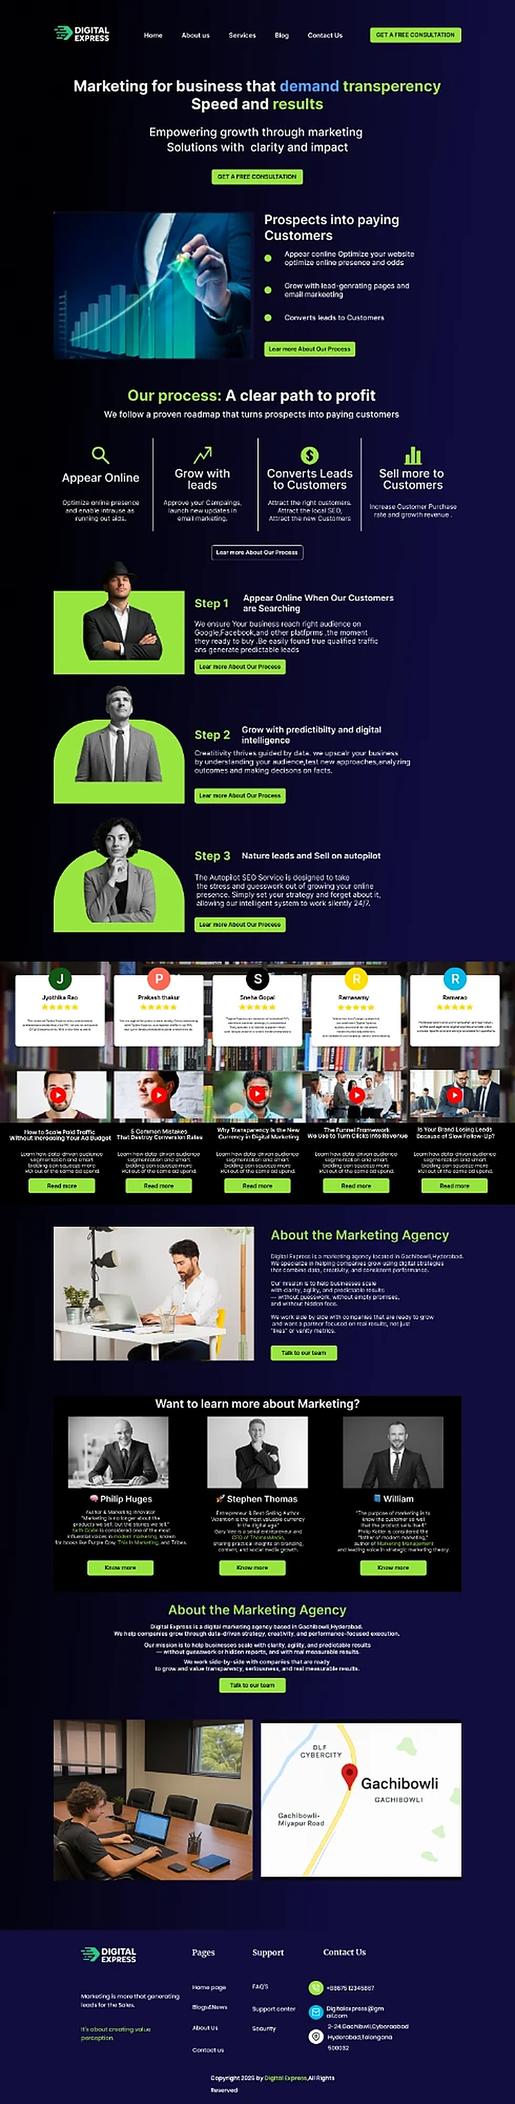
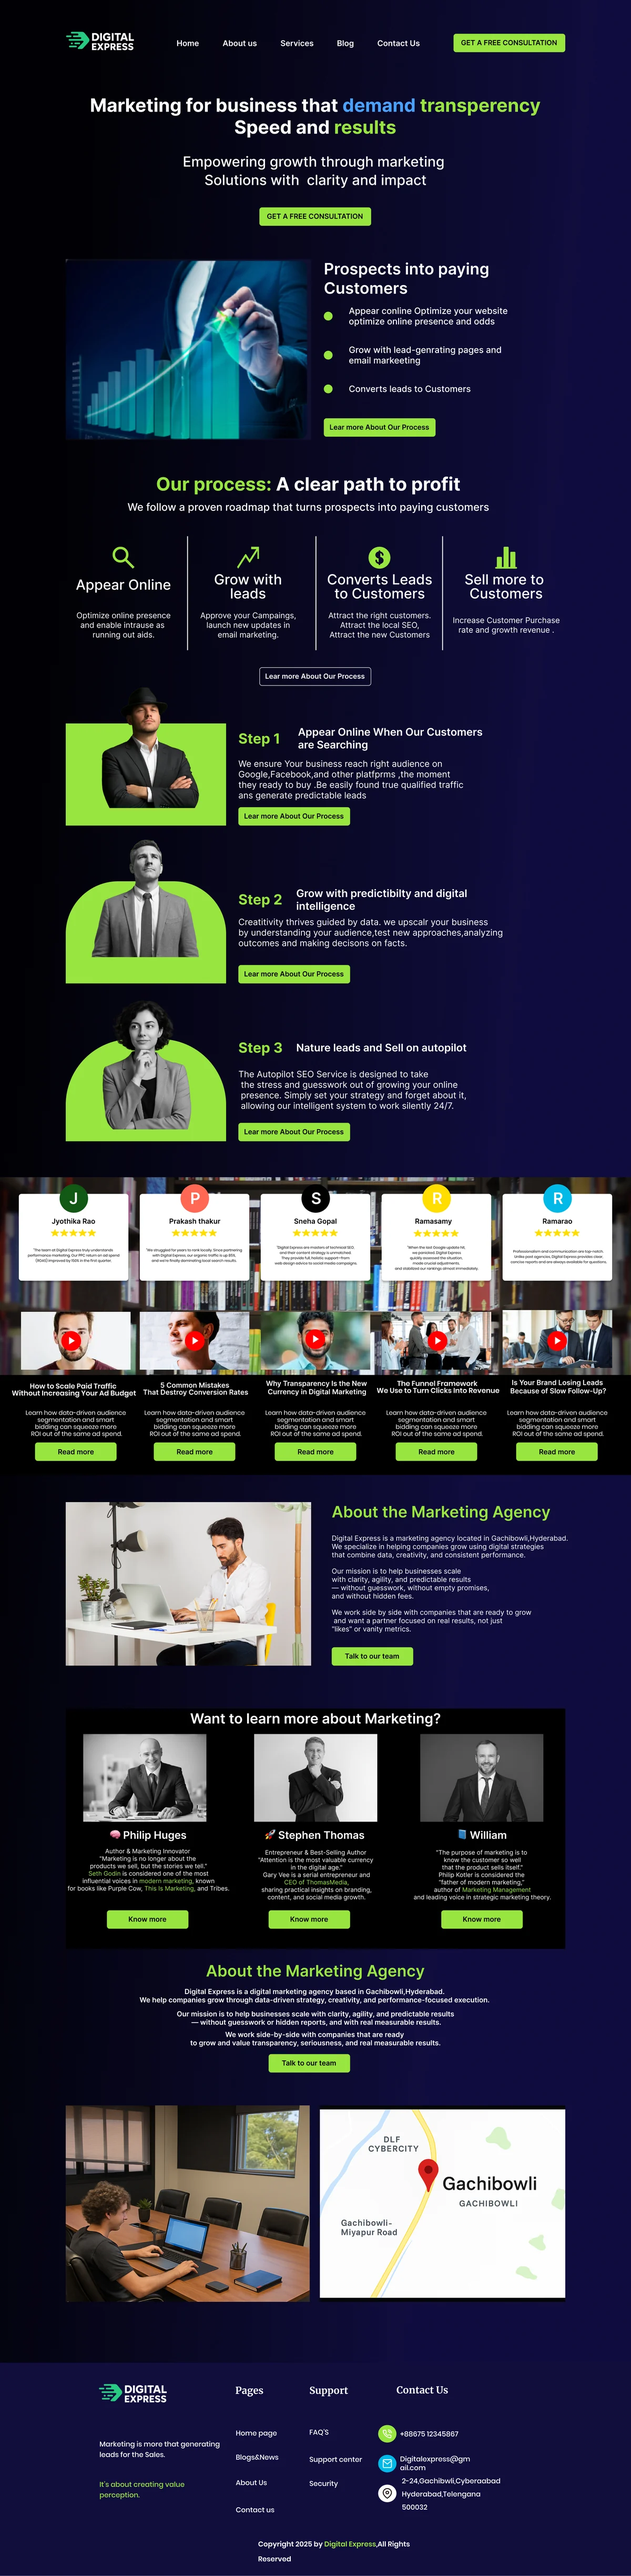
Sharp 2x practice shots; add Fresh Farm mobile pages and Home
Replace the upscaled Akenroy, Find Yourself and Digital Express shots
with 1200px exports, add mobile screens for all Fresh Farm pages plus
a mobile Home page, and remove the raw uploads.

Claude-Session: https://claude.ai/code/session_01VdoEQghTfpQ1XMFDhBath4

diff --git a/freshfarm.html b/freshfarm.html
@@ -69,71 +69,83 @@
       <dl class="cs-facts reveal" style="--d:.24s">
         <div><dt>Role</dt><dd>UI Designer</dd></div>
         <div><dt>Type</dt><dd>Website design</dd></div>
-        <div><dt>Pages</dt><dd>5 pages</dd></div>
-        <div><dt>Platform</dt><dd>Website</dd></div>
+        <div><dt>Pages</dt><dd>6 pages</dd></div>
+        <div><dt>Platforms</dt><dd>Web &amp; mobile</dd></div>
       </dl>
-      <nav class="ff-chips reveal" style="--d:.28s" aria-label="Website pages"><a class="ff-chip" href="#ff-about">About Us</a><a class="ff-chip" href="#ff-shop">Shop</a><a class="ff-chip" href="#ff-blog">Blog</a><a class="ff-chip" href="#ff-contact">Contact Us</a><a class="ff-chip" href="#ff-login">Login &amp; Register</a></nav>
+      <nav class="ff-chips reveal" style="--d:.28s" aria-label="Website pages"><a class="ff-chip" href="#ff-home">Home</a><a class="ff-chip" href="#ff-about">About Us</a><a class="ff-chip" href="#ff-shop">Shop</a><a class="ff-chip" href="#ff-blog">Blog</a><a class="ff-chip" href="#ff-contact">Contact Us</a><a class="ff-chip" href="#ff-login">Login &amp; Register</a></nav>
     </section>
 
-    <section class="section ff-page" id="ff-about" aria-labelledby="ff-about-t">
+    <section class="section ff-page" id="ff-home" aria-labelledby="ff-home-t">
       <div class="ff-page__head">
         <span class="ff-num">01</span>
+        <div>
+          <p class="eyebrow">The front door</p>
+          <h2 class="section-title a-title" id="ff-home-t">Home</h2>
+          <p class="ff-desc">A farm-to-table hero, why people choose the store, featured products, product facilities, trending bowls and salads, a client testimonial and the latest blog posts.</p>
+          <div class="ff-views"><span class="ff-view ff-view--mob">Mobile</span><span class="ff-hint"><svg width="14" height="14" viewBox="0 0 24 24" fill="none" stroke="currentColor" stroke-width="2" stroke-linecap="round" aria-hidden="true"><path d="M12 5v14M6 13l6 6 6-6"/></svg>Scroll inside the screen</span></div>
+        </div>
+      </div>
+      <div class="ff-screens ff-screens--mob"><div class="ff-device"><div class="ff-device__screen" tabindex="0" aria-label="Home mobile page, scrollable"><img src="assets/images/projects/freshfarm/mob-home.webp" width="600" height="15730" loading="lazy" alt="Fresh Farm Home page on mobile."></div></div></div>
+    </section>
+    <section class="section ff-page" id="ff-about" aria-labelledby="ff-about-t">
+      <div class="ff-page__head">
+        <span class="ff-num">02</span>
         <div>
           <p class="eyebrow">Who grows your food</p>
           <h2 class="section-title a-title" id="ff-about-t">About Us</h2>
           <p class="ff-desc">The story of the store, a farm video, the team behind it, a client testimonial and the latest blog posts.</p>
-          <div class="ff-views"><span class="ff-view ff-view--web">Web</span><span class="ff-hint"><svg width="14" height="14" viewBox="0 0 24 24" fill="none" stroke="currentColor" stroke-width="2" stroke-linecap="round" aria-hidden="true"><path d="M12 5v14M6 13l6 6 6-6"/></svg>Scroll inside the screen</span></div>
+          <div class="ff-views"><span class="ff-view ff-view--web">Web</span><span class="ff-view ff-view--mob">Mobile</span><span class="ff-hint"><svg width="14" height="14" viewBox="0 0 24 24" fill="none" stroke="currentColor" stroke-width="2" stroke-linecap="round" aria-hidden="true"><path d="M12 5v14M6 13l6 6 6-6"/></svg>Scroll inside the screen</span></div>
         </div>
       </div>
-      <div class="ff-screens ff-screens--web"><div class="ff-browser"><div class="browser__bar" aria-hidden="true"><span></span><span></span><span></span><i>freshfarm · About Us</i></div><div class="ff-browser__screen" tabindex="0" aria-label="About Us web page, scrollable"><img src="assets/images/projects/freshfarm/web-about.webp" width="1146" height="4000" loading="lazy" alt="Fresh Farm About Us page on desktop."></div></div></div>
+      <div class="ff-screens ff-screens--both"><div class="ff-browser"><div class="browser__bar" aria-hidden="true"><span></span><span></span><span></span><i>freshfarm · About Us</i></div><div class="ff-browser__screen" tabindex="0" aria-label="About Us web page, scrollable"><img src="assets/images/projects/freshfarm/web-about.webp" width="1146" height="4000" loading="lazy" alt="Fresh Farm About Us page on desktop."></div></div><div class="ff-device"><div class="ff-device__screen" tabindex="0" aria-label="About Us mobile page, scrollable"><img src="assets/images/projects/freshfarm/mob-about.webp" width="600" height="7649" loading="lazy" alt="Fresh Farm About Us page on mobile."></div></div></div>
     </section>
     <section class="section ff-page" id="ff-shop" aria-labelledby="ff-shop-t">
       <div class="ff-page__head">
-        <span class="ff-num">02</span>
+        <span class="ff-num">03</span>
         <div>
           <p class="eyebrow">Fresh produce, ready to order</p>
           <h2 class="section-title a-title" id="ff-shop-t">Shop</h2>
           <p class="ff-desc">Organic fruits and juices with ratings and prices, per-page and sort options, and trending bowls and salads with calories, servings and a quick add button.</p>
-          <div class="ff-views"><span class="ff-view ff-view--web">Web</span><span class="ff-hint"><svg width="14" height="14" viewBox="0 0 24 24" fill="none" stroke="currentColor" stroke-width="2" stroke-linecap="round" aria-hidden="true"><path d="M12 5v14M6 13l6 6 6-6"/></svg>Scroll inside the screen</span></div>
+          <div class="ff-views"><span class="ff-view ff-view--web">Web</span><span class="ff-view ff-view--mob">Mobile</span><span class="ff-hint"><svg width="14" height="14" viewBox="0 0 24 24" fill="none" stroke="currentColor" stroke-width="2" stroke-linecap="round" aria-hidden="true"><path d="M12 5v14M6 13l6 6 6-6"/></svg>Scroll inside the screen</span></div>
         </div>
       </div>
-      <div class="ff-screens ff-screens--web"><div class="ff-browser"><div class="browser__bar" aria-hidden="true"><span></span><span></span><span></span><i>freshfarm · Shop</i></div><div class="ff-browser__screen" tabindex="0" aria-label="Shop web page, scrollable"><img src="assets/images/projects/freshfarm/web-shop.webp" width="1960" height="4000" loading="lazy" alt="Fresh Farm Shop page on desktop."></div></div></div>
+      <div class="ff-screens ff-screens--both"><div class="ff-browser"><div class="browser__bar" aria-hidden="true"><span></span><span></span><span></span><i>freshfarm · Shop</i></div><div class="ff-browser__screen" tabindex="0" aria-label="Shop web page, scrollable"><img src="assets/images/projects/freshfarm/web-shop.webp" width="1960" height="4000" loading="lazy" alt="Fresh Farm Shop page on desktop."></div></div><div class="ff-device"><div class="ff-device__screen" tabindex="0" aria-label="Shop mobile page, scrollable"><img src="assets/images/projects/freshfarm/mob-shop.webp" width="600" height="9021" loading="lazy" alt="Fresh Farm Shop page on mobile."></div></div></div>
     </section>
     <section class="section ff-page" id="ff-blog" aria-labelledby="ff-blog-t">
       <div class="ff-page__head">
-        <span class="ff-num">03</span>
+        <span class="ff-num">04</span>
         <div>
           <p class="eyebrow">Stories from the farm</p>
           <h2 class="section-title a-title" id="ff-blog-t">Blog</h2>
           <p class="ff-desc">Farm stories and hand-picked products, customer reviews and a comment form, with a testimonial, search, categories and social links in the sidebar.</p>
-          <div class="ff-views"><span class="ff-view ff-view--web">Web</span><span class="ff-hint"><svg width="14" height="14" viewBox="0 0 24 24" fill="none" stroke="currentColor" stroke-width="2" stroke-linecap="round" aria-hidden="true"><path d="M12 5v14M6 13l6 6 6-6"/></svg>Scroll inside the screen</span></div>
+          <div class="ff-views"><span class="ff-view ff-view--web">Web</span><span class="ff-view ff-view--mob">Mobile</span><span class="ff-hint"><svg width="14" height="14" viewBox="0 0 24 24" fill="none" stroke="currentColor" stroke-width="2" stroke-linecap="round" aria-hidden="true"><path d="M12 5v14M6 13l6 6 6-6"/></svg>Scroll inside the screen</span></div>
         </div>
       </div>
-      <div class="ff-screens ff-screens--web"><div class="ff-browser"><div class="browser__bar" aria-hidden="true"><span></span><span></span><span></span><i>freshfarm · Blog</i></div><div class="ff-browser__screen" tabindex="0" aria-label="Blog web page, scrollable"><img src="assets/images/projects/freshfarm/web-blog.webp" width="1316" height="4000" loading="lazy" alt="Fresh Farm Blog page on desktop."></div></div></div>
+      <div class="ff-screens ff-screens--both"><div class="ff-browser"><div class="browser__bar" aria-hidden="true"><span></span><span></span><span></span><i>freshfarm · Blog</i></div><div class="ff-browser__screen" tabindex="0" aria-label="Blog web page, scrollable"><img src="assets/images/projects/freshfarm/web-blog.webp" width="1316" height="4000" loading="lazy" alt="Fresh Farm Blog page on desktop."></div></div><div class="ff-device"><div class="ff-device__screen" tabindex="0" aria-label="Blog mobile page, scrollable"><img src="assets/images/projects/freshfarm/mob-blog.webp" width="600" height="6479" loading="lazy" alt="Fresh Farm Blog page on mobile."></div></div></div>
     </section>
     <section class="section ff-page" id="ff-contact" aria-labelledby="ff-contact-t">
       <div class="ff-page__head">
-        <span class="ff-num">04</span>
+        <span class="ff-num">05</span>
         <div>
           <p class="eyebrow">Get in touch</p>
           <h2 class="section-title a-title" id="ff-contact-t">Contact Us</h2>
           <p class="ff-desc">Phone, email and office address beside a short form: name, email, phone, product and message.</p>
-          <div class="ff-views"><span class="ff-view ff-view--web">Web</span><span class="ff-hint"><svg width="14" height="14" viewBox="0 0 24 24" fill="none" stroke="currentColor" stroke-width="2" stroke-linecap="round" aria-hidden="true"><path d="M12 5v14M6 13l6 6 6-6"/></svg>Scroll inside the screen</span></div>
+          <div class="ff-views"><span class="ff-view ff-view--web">Web</span><span class="ff-view ff-view--mob">Mobile</span><span class="ff-hint"><svg width="14" height="14" viewBox="0 0 24 24" fill="none" stroke="currentColor" stroke-width="2" stroke-linecap="round" aria-hidden="true"><path d="M12 5v14M6 13l6 6 6-6"/></svg>Scroll inside the screen</span></div>
         </div>
       </div>
-      <div class="ff-screens ff-screens--web"><div class="ff-browser"><div class="browser__bar" aria-hidden="true"><span></span><span></span><span></span><i>freshfarm · Contact Us</i></div><div class="ff-browser__screen" tabindex="0" aria-label="Contact Us web page, scrollable"><img src="assets/images/projects/freshfarm/web-contact.webp" width="1181" height="2000" loading="lazy" alt="Fresh Farm Contact Us page on desktop."></div></div></div>
+      <div class="ff-screens ff-screens--both"><div class="ff-browser"><div class="browser__bar" aria-hidden="true"><span></span><span></span><span></span><i>freshfarm · Contact Us</i></div><div class="ff-browser__screen" tabindex="0" aria-label="Contact Us web page, scrollable"><img src="assets/images/projects/freshfarm/web-contact.webp" width="1181" height="2000" loading="lazy" alt="Fresh Farm Contact Us page on desktop."></div></div><div class="ff-device"><div class="ff-device__screen" tabindex="0" aria-label="Contact Us mobile page, scrollable"><img src="assets/images/projects/freshfarm/mob-contact.webp" width="600" height="3935" loading="lazy" alt="Fresh Farm Contact Us page on mobile."></div></div></div>
     </section>
     <section class="section ff-page" id="ff-login" aria-labelledby="ff-login-t">
       <div class="ff-page__head">
-        <span class="ff-num">05</span>
+        <span class="ff-num">06</span>
         <div>
           <p class="eyebrow">Sign in or join</p>
           <h2 class="section-title a-title" id="ff-login-t">Login &amp; Register</h2>
           <p class="ff-desc">Login and register side by side: email and password, password rules, name, phone number and terms.</p>
-          <div class="ff-views"><span class="ff-view ff-view--web">Web</span><span class="ff-hint"><svg width="14" height="14" viewBox="0 0 24 24" fill="none" stroke="currentColor" stroke-width="2" stroke-linecap="round" aria-hidden="true"><path d="M12 5v14M6 13l6 6 6-6"/></svg>Scroll inside the screen</span></div>
+          <div class="ff-views"><span class="ff-view ff-view--web">Web</span><span class="ff-view ff-view--mob">Mobile</span><span class="ff-hint"><svg width="14" height="14" viewBox="0 0 24 24" fill="none" stroke="currentColor" stroke-width="2" stroke-linecap="round" aria-hidden="true"><path d="M12 5v14M6 13l6 6 6-6"/></svg>Scroll inside the screen</span></div>
         </div>
       </div>
-      <div class="ff-screens ff-screens--web"><div class="ff-browser"><div class="browser__bar" aria-hidden="true"><span></span><span></span><span></span><i>freshfarm · Login &amp; Register</i></div><div class="ff-browser__screen" tabindex="0" aria-label="Login &amp; Register web page, scrollable"><img src="assets/images/projects/freshfarm/web-login.webp" width="1255" height="2000" loading="lazy" alt="Fresh Farm Login &amp; Register page on desktop."></div></div></div>
+      <div class="ff-screens ff-screens--both"><div class="ff-browser"><div class="browser__bar" aria-hidden="true"><span></span><span></span><span></span><i>freshfarm · Login &amp; Register</i></div><div class="ff-browser__screen" tabindex="0" aria-label="Login &amp; Register web page, scrollable"><img src="assets/images/projects/freshfarm/web-login.webp" width="1255" height="2000" loading="lazy" alt="Fresh Farm Login &amp; Register page on desktop."></div></div><div class="ff-device"><div class="ff-device__screen" tabindex="0" aria-label="Login &amp; Register mobile page, scrollable"><img src="assets/images/projects/freshfarm/mob-login.webp" width="600" height="4096" loading="lazy" alt="Fresh Farm Login &amp; Register page on mobile."></div></div></div>
     </section>
 
     <section class="section cs-next" aria-label="More">

diff --git a/projects.html b/projects.html
@@ -238,7 +238,7 @@
             <div class="p-card__tags"><span class="tag">E-commerce</span><span class="tag">Website</span></div>
             <h3 class="w-card__title">Fresh Farm</h3>
             <p class="w-card__line">An organic store website, where people buy organic fruits and vegetables straight from the farm.</p>
-            <p class="w-card__meta">5 pages · About, Shop, Blog, Contact, Login</p>
+            <p class="w-card__meta">6 pages · Web &amp; mobile</p>
             <a class="btn btn--primary" href="freshfarm.html">View website pages <span aria-hidden="true">→</span></a>
           </div>
         </article>
@@ -250,9 +250,9 @@
           <p class="prac__sub">Websites I designed to practise spacing, alignment, visual hierarchy and information architecture. Scroll inside each one.</p>
         </div>
         <div class="prac__grid">
-          <figure class="prac__item"><div class="ff-browser"><div class="browser__bar" aria-hidden="true"><span></span><span></span><span></span></div><div class="ff-browser__screen prac__screen" tabindex="0" aria-label="Akenroy Watches website, scrollable"><img src="assets/images/projects/practice/akenroy.webp" width="848" height="4000" loading="lazy" alt="Akenroy Watches website design."></div></div><figcaption><strong>Akenroy Watches</strong><span>Watch brand · E-commerce</span></figcaption></figure>
-          <figure class="prac__item"><div class="ff-browser"><div class="browser__bar" aria-hidden="true"><span></span><span></span><span></span></div><div class="ff-browser__screen prac__screen" tabindex="0" aria-label="Find Yourself website, scrollable"><img src="assets/images/projects/practice/findyourself.webp" width="746" height="4000" loading="lazy" alt="Find Yourself website design."></div></div><figcaption><strong>Find Yourself</strong><span>Travel &amp; tourism</span></figcaption></figure>
-          <figure class="prac__item"><div class="ff-browser"><div class="browser__bar" aria-hidden="true"><span></span><span></span><span></span></div><div class="ff-browser__screen prac__screen" tabindex="0" aria-label="Digital Express website, scrollable"><img src="assets/images/projects/practice/digitalexpress.webp" width="980" height="4000" loading="lazy" alt="Digital Express website design."></div></div><figcaption><strong>Digital Express</strong><span>Marketing agency</span></figcaption></figure>
+          <figure class="prac__item"><div class="ff-browser"><div class="browser__bar" aria-hidden="true"><span></span><span></span><span></span></div><div class="ff-browser__screen prac__screen" tabindex="0" aria-label="Akenroy Watches website, scrollable"><img src="assets/images/projects/practice/akenroy.webp" width="1200" height="5666" loading="lazy" alt="Akenroy Watches website design."></div></div><figcaption><strong>Akenroy Watches</strong><span>Watch brand · E-commerce</span></figcaption></figure>
+          <figure class="prac__item"><div class="ff-browser"><div class="browser__bar" aria-hidden="true"><span></span><span></span><span></span></div><div class="ff-browser__screen prac__screen" tabindex="0" aria-label="Find Yourself website, scrollable"><img src="assets/images/projects/practice/findyourself.webp" width="1200" height="6431" loading="lazy" alt="Find Yourself website design."></div></div><figcaption><strong>Find Yourself</strong><span>Travel &amp; tourism</span></figcaption></figure>
+          <figure class="prac__item"><div class="ff-browser"><div class="browser__bar" aria-hidden="true"><span></span><span></span><span></span></div><div class="ff-browser__screen prac__screen" tabindex="0" aria-label="Digital Express website, scrollable"><img src="assets/images/projects/practice/digitalexpress.webp" width="1200" height="4896" loading="lazy" alt="Digital Express website design."></div></div><figcaption><strong>Digital Express</strong><span>Marketing agency</span></figcaption></figure>
         </div>
       </div>
     </section>
